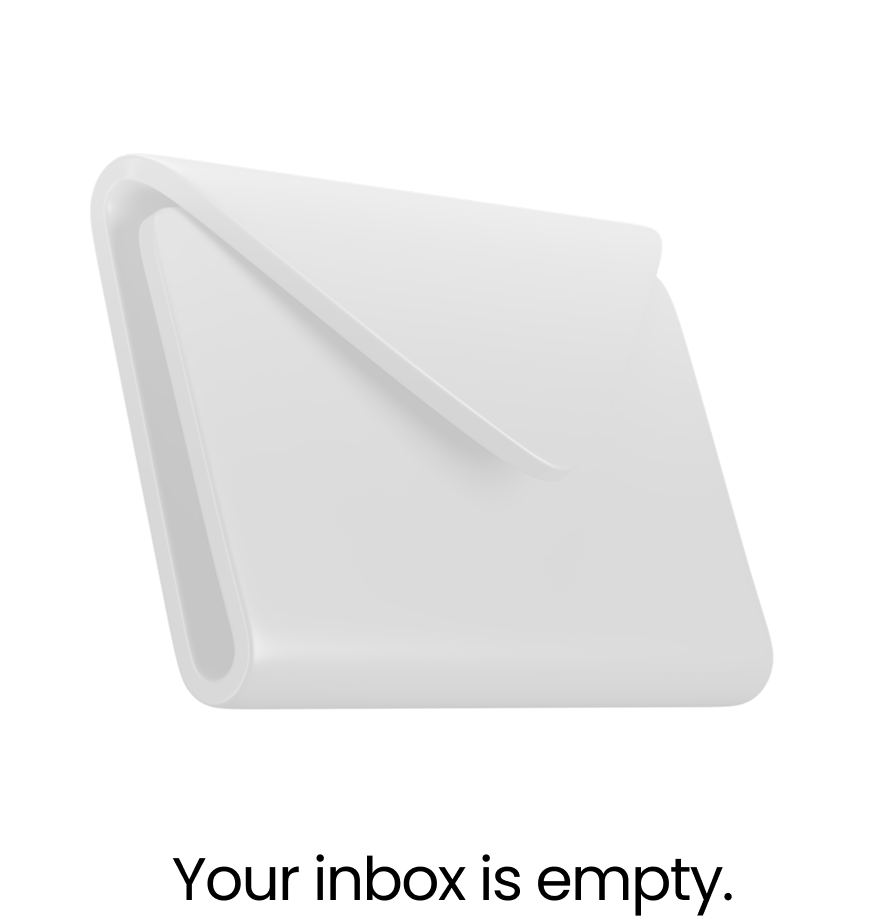
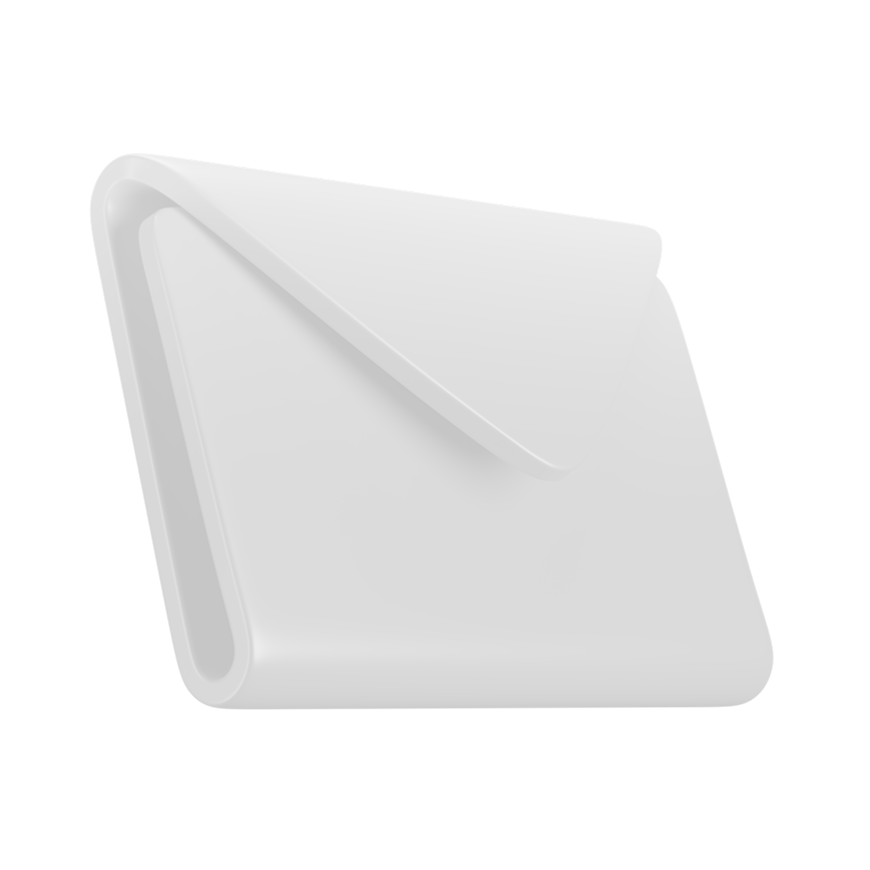
Todo & Inbox Backlogs and Rename Files

diff --git a/shared/assets/css/inbox.css b/shared/assets/css/inbox.css
@@ -14,7 +14,6 @@
     font-size: 14px;
     font-weight: 500;
     cursor: pointer;
-    min-width: 120px;
     display: flex;
     justify-content: space-between;
     align-items: center;
@@ -43,7 +42,6 @@
     border: 1px solid #000;
     border-radius: 15px;
     background-color: #fff;
-    width: 100%;
     display: none;
     z-index: 100;
     overflow: hidden;
@@ -54,6 +52,33 @@
     padding: 8px 16px;
     cursor: pointer;
     border: none;
+}
+
+/* Empty state */
+.empty-state {
+    min-height: 300px;
+    width: 100%;
+    margin-left: auto;
+    margin-right: auto;
+}
+
+.empty-state img {
+    max-width: 280px;
+    width: 100%;
+    height: auto;
+    display: block;
+    margin-left: auto;
+    margin-right: auto;
+}
+
+/* Empty state texts*/
+.empty-state .empty-text {
+    font-family: 'Regular', sans-serif;
+    font-size: 20px;
+    line-height: 100%;
+    letter-spacing: -0.03em;
+    text-align: center;
+    margin-top: 12px;
 }
 
 @media (max-width: 768px) {

diff --git a/shared/assets/css/todo.css b/shared/assets/css/todo.css
@@ -14,7 +14,6 @@
     font-size: 14px;
     font-weight: 500;
     cursor: pointer;
-    min-width: 120px;
     display: flex;
     justify-content: space-between;
     align-items: center;
@@ -43,7 +42,6 @@
     border: 1px solid #000;
     border-radius: 15px;
     background-color: #fff;
-    width: 100%;
     display: none;
     z-index: 100;
     overflow: hidden;
@@ -71,6 +69,25 @@
     display: block;
     margin-left: auto;
     margin-right: auto;
+}
+
+/* Empty state texts */
+.empty-state .empty-text {
+    font-family: 'SemiBold', sans-serif;
+    font-size: 20px;
+    line-height: 100%;
+    letter-spacing: -0.03em; /* ~ -3% */
+    text-align: center;
+    margin-bottom: 8px;
+}
+
+.empty-state .empty-subtext {
+    font-family: 'Regular', sans-serif;
+    font-size: 20px;
+    line-height: 100%;
+    letter-spacing: -0.03em; /* ~ -3% */
+    text-align: center;
+    display: block;
 }
 
 /* Ensure centering on small screens */

diff --git a/shared/assets/css/assign-task-edit-rubric.css b/shared/assets/css/assign-task-edit-rubric.css
@@ -33,7 +33,7 @@
     opacity: 1;
     margin-top: 15px;
     margin-bottom: 15px;
-    width: 62%;
+    width: 710px; /* match form width for consistent alignment on zoom */
 }
 
 /* Remove button styling */
@@ -76,18 +76,17 @@
     color: var(--black) !important;
     width: 32px;
     height: 32px;
-    margin-left: calc(62% - 185px);
-    /* aligns with 62% divider end */
+    margin-left: 525px; /* align with 710px form width (710 - 185) */
 }
 
 /* Total points label spacing next to Criteria button */
 .total-points-label {
-    margin-left: calc(62% - 220px);
+    margin-left: 490px; /* align with 710px form width (710 - 220) */
 }
 
 /* Criteria Add Button */
 .criteria-add-btn {
-    margin-left: calc(62% - 93px) !important;
+    margin-left: 617px !important; /* align with 710px form width (710 - 93) */
     margin-top: 40px;
 }
 

diff --git a/shared/assets/css/assign-task-create-rubric.css b/shared/assets/css/assign-task-create-rubric.css
@@ -33,7 +33,7 @@
     opacity: 1; 
     margin-top: 15px;
     margin-bottom: 15px;
-    width: 62%;
+    width: 710px; /* match form width for consistent alignment on zoom */
 }
  
 /* Remove button styling */
@@ -76,17 +76,17 @@
     color: var(--black) !important;
     width: 32px;
     height: 32px;
-    margin-left: calc(62% - 185px); /* aligns with 62% divider end */
+    margin-left: 525px; /* align with 710px form width (710 - 185) */
 }
 
 /* Total points label spacing next to Criteria button */
 .total-points-label {
-    margin-left: calc(62% - 220px); 
+    margin-left: 490px; /* align with 710px form width (710 - 220) */
 }
 
 /* Criteria Add Button */
 .criteria-add-btn {
-    margin-left: calc(62% - 93px) !important;
+    margin-left: 617px !important; /* align with 710px form width (710 - 93) */
     margin-top: 40px;
 }
 

diff --git a/todo.php b/todo.php
@@ -97,7 +97,7 @@ $selectAssessmentResult = executeQuery($selectAssessmentQuery);
                     <!-- Navbar for mobile -->
                     <?php include 'shared/components/navbar-for-mobile.php'; ?>
 
-                    <div class="container-fluid py-3 overflow-y-auto row-padding-top">
+                    <div class="container-fluid py-3 row-padding-top">
                         <div class="row">
                             <div class="col-12">
 
@@ -256,6 +256,28 @@ $selectAssessmentResult = executeQuery($selectAssessmentQuery);
                                             <div
                                                 class="empty-state text-center py-5 d-flex flex-column align-items-center justify-content-center mx-auto">
                                                 <img src="<?php echo $emptyImage; ?>" alt="Empty state">
+                                                <?php if ($statusFilter == 'Missing') { ?>
+                                                    <div class="mt-3 text-center empty-text">
+                                                        No missing quests.
+                                                    </div>
+                                                    <span class="empty-subtext">
+                                                        You’re right on track, adventurer!
+                                                    </span>
+                                                <?php } elseif ($statusFilter == 'Done') { ?>
+                                                    <div class="mt-3 text-center empty-text">
+                                                        You haven’t submitted any quests yet.
+                                                    </div>
+                                                    <span class="empty-subtext">
+                                                        Complete one to earn XPs!
+                                                    </span>
+                                                <?php } else { ?>
+                                                    <div class="mt-3 text-center empty-text">
+                                                        No quests have been assigned yet.
+                                                    </div>
+                                                    <span class="empty-subtext">
+                                                        Your next adventure awaits!
+                                                    </span>
+                                                <?php } ?>
                                             </div>
                                             <?php
                                         }

diff --git a/inbox.php b/inbox.php
@@ -71,7 +71,7 @@ $selectInboxResult = executeQuery($selectInboxQuery);
                     style="background-color: transparent;">
                     <?php include 'shared/components/navbar-for-mobile.php'; ?>
 
-                    <div class="container-fluid py-3 overflow-y-auto row-padding-top">
+                    <div class="container-fluid py-3 row-padding-top">
                         <div class="row">
                             <div class="col-12">
                                 <!-- Header Section -->
@@ -195,6 +195,13 @@ $selectInboxResult = executeQuery($selectInboxQuery);
                                                 <?php
                                             }
                                         } else {
+                                            ?>
+                                            <div
+                                                class="empty-state text-center py-5 d-flex flex-column align-items-center justify-content-center mx-auto">
+                                                <img src="shared/assets/img/empty/inbox.png" alt="Empty state">
+                                                <div class="text-center empty-text">Your inbox is empty.</div>
+                                            </div>
+                                            <?php
                                         }
                                         ?>
                                     </div>
